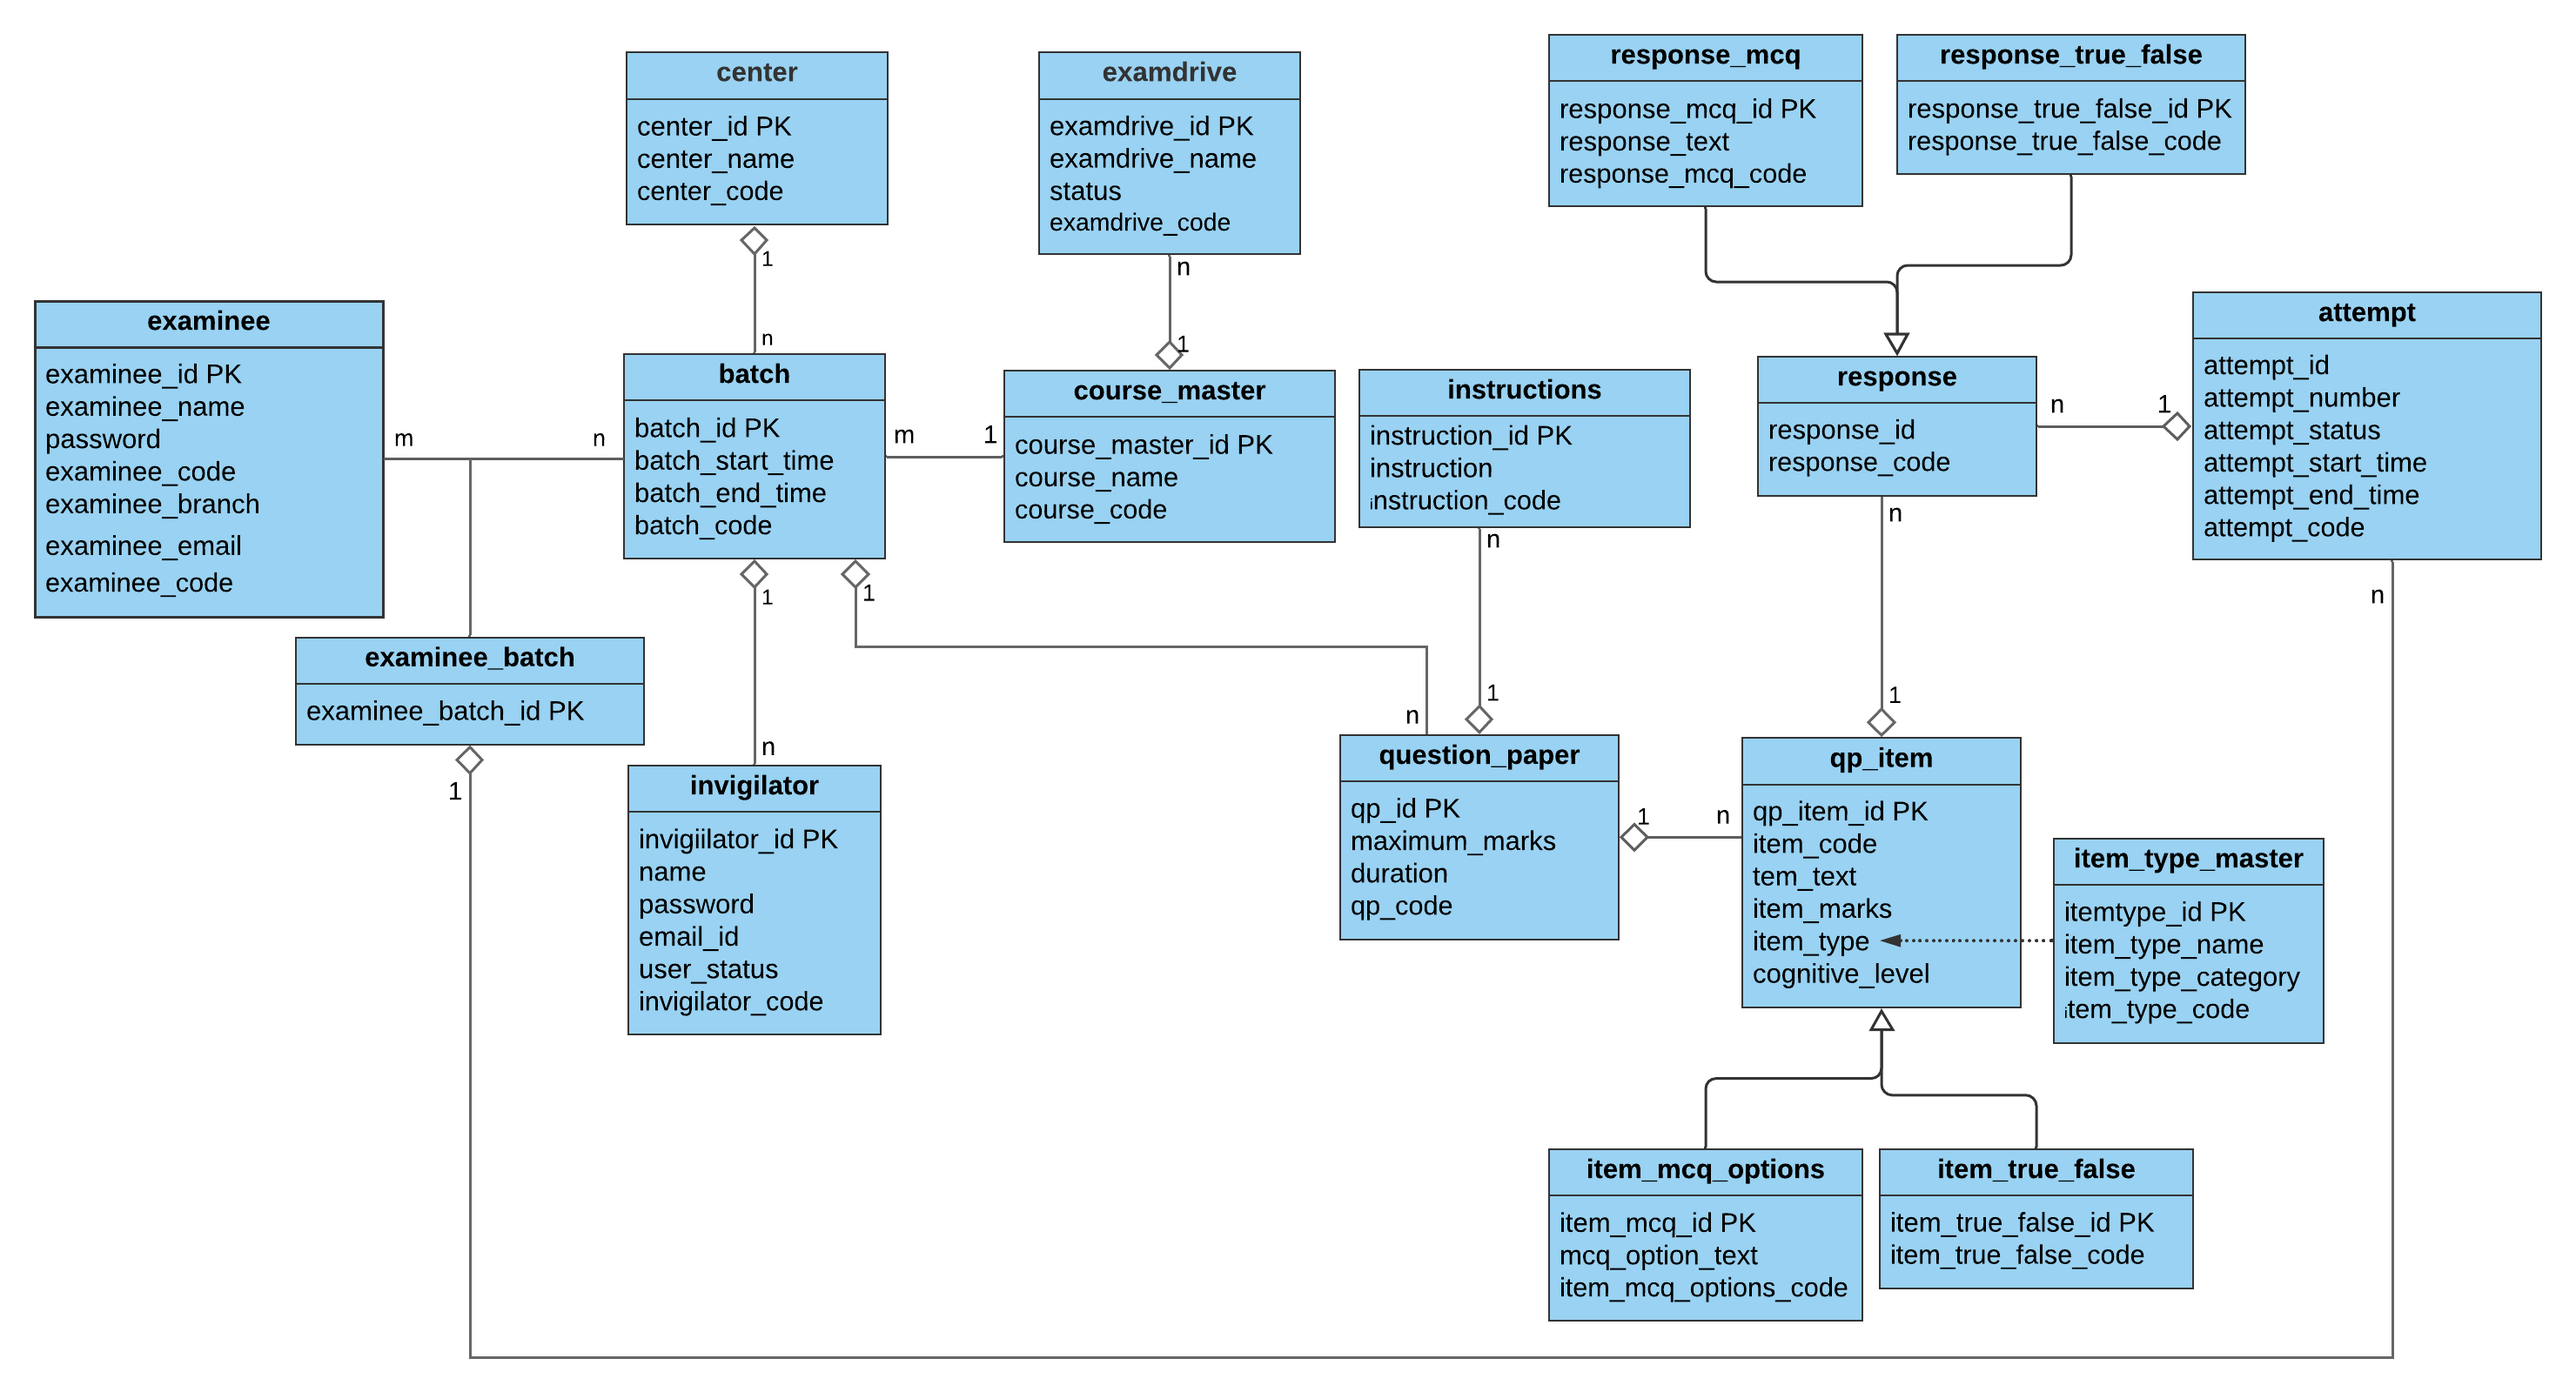
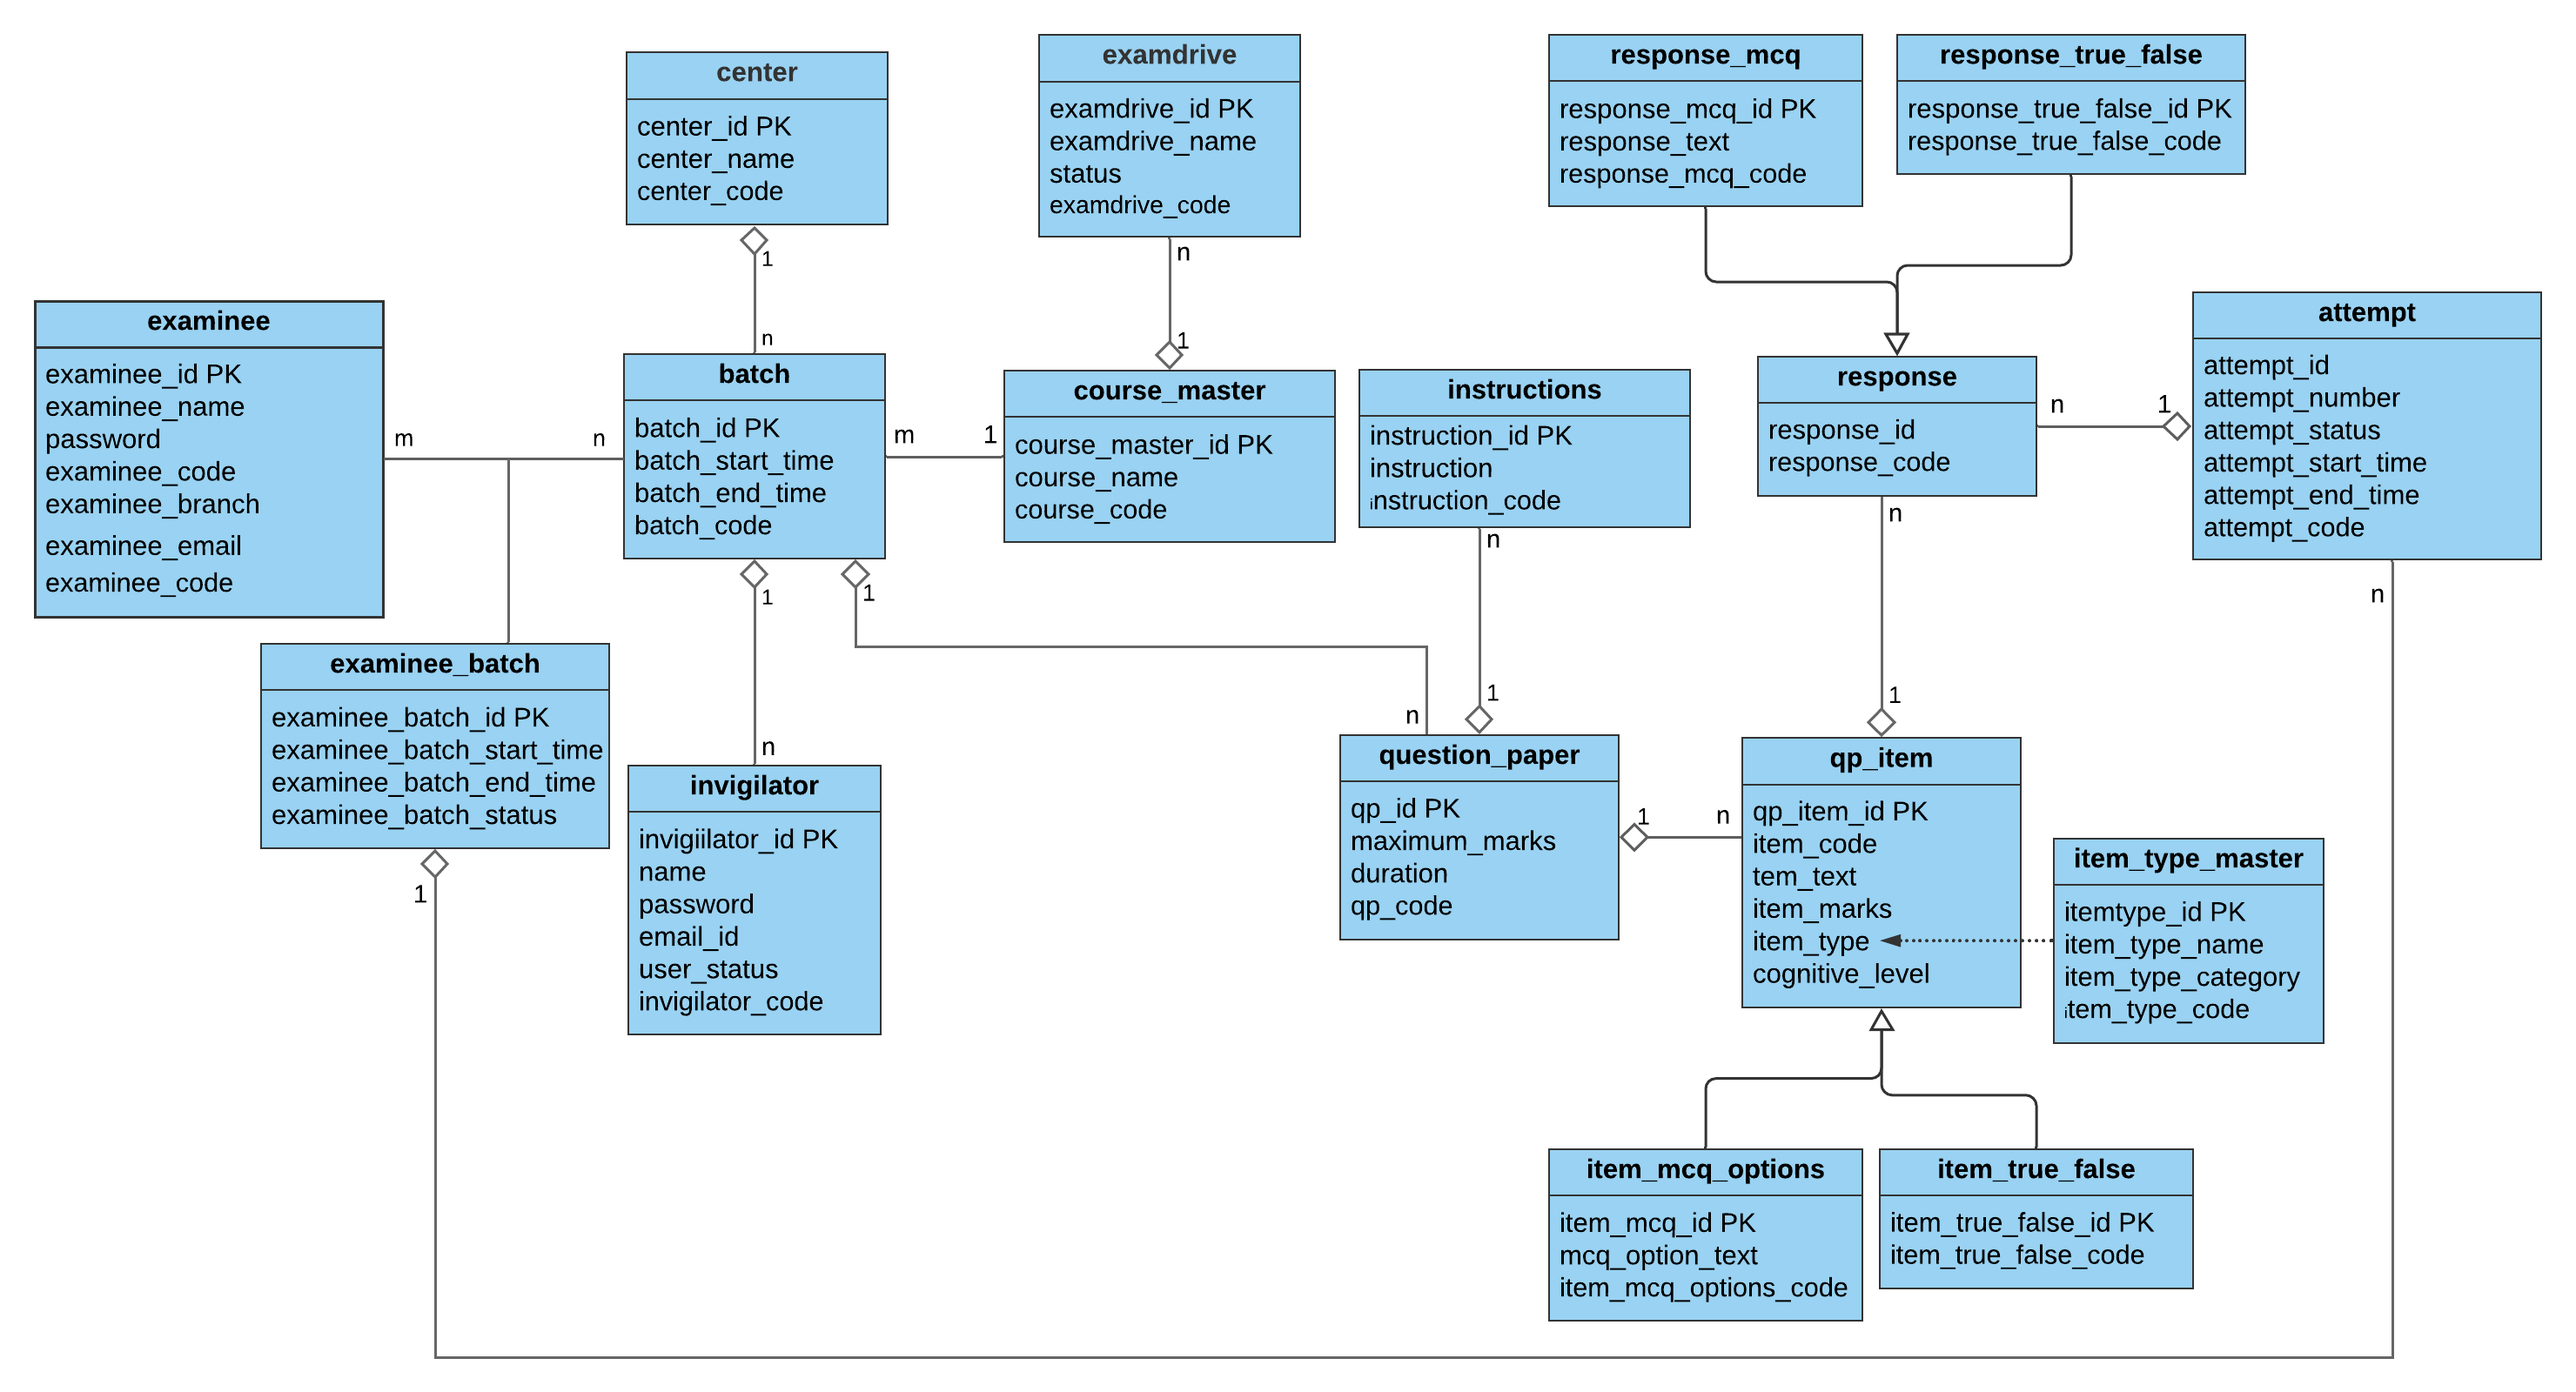
Adding extra attributes in examineeBatch Table

Changed region(s): [[0.0932, 0.4375, 0.2486, 0.625], [0.4041, 0.0, 0.5284, 0.1875]]

diff --git a/Assessment/examinee/assessmentExaminee_UI/src/app/question-paper/question-paper.component.ts b/Assessment/examinee/assessmentExaminee_UI/src/app/question-paper/question-paper.component.ts
@@ -20,6 +20,9 @@ export class QuestionPaperComponent implements OnInit {
   attempt: Attempt = {attemptId: 0, attemptCode: '', attemptNumber: 1, attemptStartTime: '', attemptEndTime: null, attemptStatus: 'IN_PROGRESS', asExamineeBatch: null};
   constructor(private questionPaperService: QuestionPaperService, private activeRoute: ActivatedRoute, public route: Router, public datepipe: DatePipe) { }
 
+  examineeBatch: ExamineeBatch = {examineeBatchId: null, examineeBatchStartTime: '', examineeBatchEndTime: null, examineeBatchStatus: 'IN_PROGRESS', examinee: null, batch: null};
+  // {"examineeBatchId":{"examineeId":1,"batchId":1},"examineeBatchStartTime":"2020-10-02T09:15:00","examineeBatchEndTime":null,"examineeBatchStatus":"IN_PROGRESS", "examinee":null, "batch":null}
+
   ngOnInit(): void {
     const examineeId = 1;
     this.questionPaperService.getQuestionPapers(examineeId).subscribe((questionPapers) => this.questionPapers = questionPapers);
@@ -43,9 +46,13 @@ export class QuestionPaperComponent implements OnInit {
 
     this.attempt.attemptCode = 'Attempt' + examineeId + questionPaper.asBatch.batchId;
 
+    this.examineeBatch.examineeBatchId = examineeBatchId;
+    this.examineeBatch.examineeBatchStartTime = currDateTimeFormatted;
+
     if(currDateTime >= new Date(questionPaper.asBatch.batchStartTime) && currDateTime <= new Date(questionPaper.asBatch.batchEndTime)){
       this.showStartExamModalPopup = false;
       this.addAttempt(examineeId, questionPaper.asBatch.batchId, this.attempt);
+      this.updateExamineeBatch(examineeId, questionPaper.asBatch.batchId, this.examineeBatch);
       this.route.navigate(['/examination/' + questionPaper.qpId]);
       // (<HTMLInputElement> document.getElementById("StartButton_"+questionPaper.qpId.toString())).disabled = false;
     }
@@ -58,6 +65,10 @@ export class QuestionPaperComponent implements OnInit {
 
   addAttempt(examineeId: number, batchId: number, attempt: Attempt): void{
     this.questionPaperService.postAttemptForExamineeAndBatch(examineeId, batchId, attempt).subscribe((attempt) => this.attempt = attempt);
+  }
+
+  updateExamineeBatch(examineeId: number, batchId: number, examineeBatch: ExamineeBatch): void{
+    this.questionPaperService.updateExamineeBatchStartTimeAndStatus(examineeId,batchId,examineeBatch).subscribe((examineeBatch) => this.examineeBatch = examineeBatch);
   }
 
 }

diff --git a/Assessment/examinee/assessmentExaminee_UI/src/app/services/question-paper.service.ts b/Assessment/examinee/assessmentExaminee_UI/src/app/services/question-paper.service.ts
@@ -5,6 +5,7 @@ import { Attempt } from "../shared/attempt";
 import { HttpClient } from "@angular/common/http";
 import { baseURL } from "../shared/baseurl";
 import { Observable, of } from "rxjs";
+import { ExamineeBatch } from '../shared/examineeBatch';
 
 @Injectable({
   providedIn: 'root'
@@ -19,6 +20,10 @@ export class QuestionPaperService {
 
   postAttemptForExamineeAndBatch(examineeId: number, batchId: number, attempt: Attempt): Observable<Attempt>{
     return this.http.post<Attempt>(baseURL +  'examinee/' + examineeId + '/batch/' + batchId + '/attempt', attempt);
+  }
+
+  updateExamineeBatchStartTimeAndStatus(examineeId: number, batchId: number, examineeBatch: ExamineeBatch): Observable<ExamineeBatch>{
+    return this.http.put<ExamineeBatch>(baseURL + 'examinee/' + examineeId + '/batch/' + batchId + '/examineeBatch', examineeBatch);
   }
 
   // getQuestionPapers(): QuestionPaper[]{

diff --git a/Assessment/examinee/assessmentExaminee_UI/src/app/shared/examineeBatch.ts b/Assessment/examinee/assessmentExaminee_UI/src/app/shared/examineeBatch.ts
@@ -9,6 +9,9 @@ export class ExamineeBatchId{
 
 export class ExamineeBatch{
     examineeBatchId: ExamineeBatchId;
+    examineeBatchStartTime: string;
+    examineeBatchEndTime: string;
+    examineeBatchStatus: string;
     examinee: Examinee;
     batch: Batch;
 }

diff --git a/Assessment/examinee/assessmentExamineeBackEnd/src/main/java/com/iiitb/assessmentBackEnd/examineeBatch/AsExamineeBatch.java b/Assessment/examinee/assessmentExamineeBackEnd/src/main/java/com/iiitb/assessmentBackEnd/examineeBatch/AsExamineeBatch.java
@@ -1,5 +1,7 @@
 package com.iiitb.assessmentBackEnd.examineeBatch;
 
+import java.time.LocalDateTime;
+
 import javax.persistence.EmbeddedId;
 import javax.persistence.Entity;
 import javax.persistence.Id;
@@ -19,6 +21,10 @@ public class AsExamineeBatch {
 	
 	@EmbeddedId
     private ExamineeBatchKey examineeBatchId;
+	
+	private LocalDateTime examineeBatchStartTime, examineeBatchEndTime;
+	private enum examineeBatchStatusList {NOT_STARTED, IN_PROGRESS, COMPLETED};
+	private String examineeBatchStatus;
  
     @ManyToOne
     @MapsId("examineeId")
@@ -36,9 +42,13 @@ public class AsExamineeBatch {
     	
     }
     
-	public AsExamineeBatch(ExamineeBatchKey examineeBatchId, AsExaminee examinee, AsBatch batch) {
+	public AsExamineeBatch(ExamineeBatchKey examineeBatchId, LocalDateTime examineeBatchStartTime, LocalDateTime examineeBatchEndTime, 
+			String examineeBatchStatus, AsExaminee examinee, AsBatch batch) {
 		super();
 		this.examineeBatchId = examineeBatchId;
+		this.examineeBatchStartTime = examineeBatchStartTime;
+		this.examineeBatchEndTime = examineeBatchEndTime;
+		this.examineeBatchStatus = examineeBatchStatus;
 		this.examinee = examinee;
 		this.batch = batch;
 	}
@@ -49,6 +59,30 @@ public class AsExamineeBatch {
 
 	public void setExamineeBatchId(ExamineeBatchKey examineeBatchId) {
 		this.examineeBatchId = examineeBatchId;
+	}
+	
+	public LocalDateTime getExamineeBatchStartTime() {
+		return examineeBatchStartTime;
+	}
+
+	public void setExamineeBatchStartTime(LocalDateTime examineeBatchStartTime) {
+		this.examineeBatchStartTime = examineeBatchStartTime;
+	}
+
+	public LocalDateTime getExamineeBatchEndTime() {
+		return examineeBatchEndTime;
+	}
+
+	public void setExamineeBatchEndTime(LocalDateTime examineeBatchEndTime) {
+		this.examineeBatchEndTime = examineeBatchEndTime;
+	}
+
+	public String getExamineeBatchStatus() {
+		return examineeBatchStatus;
+	}
+
+	public void setExamineeBatchStatus(String examineeBatchStatus) {
+		this.examineeBatchStatus = examineeBatchStatus;
 	}
 
 	public AsExaminee getExaminee() {

diff --git a/Assessment/examinee/assessmentExamineeBackEnd/src/main/java/com/iiitb/assessmentBackEnd/examineeBatch/ExamineeBatchController.java b/Assessment/examinee/assessmentExamineeBackEnd/src/main/java/com/iiitb/assessmentBackEnd/examineeBatch/ExamineeBatchController.java
@@ -5,7 +5,9 @@ import java.util.List;
 import org.springframework.beans.factory.annotation.Autowired;
 import org.springframework.web.bind.annotation.CrossOrigin;
 import org.springframework.web.bind.annotation.PathVariable;
+import org.springframework.web.bind.annotation.RequestBody;
 import org.springframework.web.bind.annotation.RequestMapping;
+import org.springframework.web.bind.annotation.RequestMethod;
 import org.springframework.web.bind.annotation.RestController;
 
 @RestController
@@ -15,8 +17,14 @@ public class ExamineeBatchController {
 	@Autowired
 	public ExamineeBatchService examineeBatchService;
 	
-	@RequestMapping("/examinee/{examineeId}/batch/{batchId}")
+	@RequestMapping("/examinee/{examineeId}/batch/{batchId}/examineeBatch")
 	public AsExamineeBatch getExamineeBatchFromExamineeAndBatchIds(@PathVariable int examineeId, @PathVariable int batchId){
 		return examineeBatchService.getExamineeBatchFromExamineeAndBatchIds(examineeId, batchId);
+	}
+	
+	@RequestMapping(method=RequestMethod.PUT, value="/examinee/{examineeId}/batch/{batchId}/examineeBatch")
+	public void updateExamineeBatch(@PathVariable int examineeId, @PathVariable int batchId,@RequestBody AsExamineeBatch examineeBatch) {
+		ExamineeBatchKey examineeBatchKey = new ExamineeBatchKey(examineeId, batchId);
+		examineeBatchService.updateExamineeBatch(examineeBatchKey, examineeBatch);
 	}
 }

diff --git a/Assessment/examinee/assessmentExamineeBackEnd/src/main/java/com/iiitb/assessmentBackEnd/attempt/AttemptController.java b/Assessment/examinee/assessmentExamineeBackEnd/src/main/java/com/iiitb/assessmentBackEnd/attempt/AttemptController.java
@@ -23,7 +23,7 @@ public class AttemptController {
 	@RequestMapping(method=RequestMethod.POST, value="/examinee/{examineeId}/batch/{batchId}/attempt")
 	public void addAttempt(@RequestBody AsAttempt attempt, @PathVariable int examineeId, @PathVariable int batchId) {
 		ExamineeBatchKey examineeBatchKey = new ExamineeBatchKey(examineeId, batchId);
-		AsExamineeBatch asExamineeBatch = new AsExamineeBatch(examineeBatchKey,null,null);
+		AsExamineeBatch asExamineeBatch = new AsExamineeBatch(examineeBatchKey,null,null,"NOT_STARTED",null,null);
 //		asExamineeBatch.setExamineeBatchId(examineeBatchKey);
 		attempt.setAsExamineeBatch(asExamineeBatch);
 		attemptService.addAttempt(attempt);

diff --git a/Assessment/examinee/assessmentExamineeBackEnd/src/main/java/com/iiitb/assessmentBackEnd/attempt/AsAttempt.java b/Assessment/examinee/assessmentExamineeBackEnd/src/main/java/com/iiitb/assessmentBackEnd/attempt/AsAttempt.java
@@ -17,7 +17,7 @@ public class AsAttempt {
 	private String attemptCode;
 	private int attemptNumber;
 	private LocalDateTime attemptStartTime, attemptEndTime;
-	private enum attemptStatusList {NOT_STARTED, IN_PROGRESS, COMPLETED, ABANDONED};
+	private enum attemptStatusList {IN_PROGRESS, COMPLETED, ABANDONED};
 	private String attemptStatus;
 	
 	@ManyToOne

diff --git a/Assessment/examinee/assessmentExamineeBackEnd/src/main/java/com/iiitb/assessmentBackEnd/examineeBatch/ExamineeBatchService.java b/Assessment/examinee/assessmentExamineeBackEnd/src/main/java/com/iiitb/assessmentBackEnd/examineeBatch/ExamineeBatchService.java
@@ -14,4 +14,8 @@ public class ExamineeBatchService {
 		return examineeBatchRepository.findByExamineeBatchId(examineeBatchKey);
 	}
 
+	public void updateExamineeBatch(ExamineeBatchKey examineeBatchKey, AsExamineeBatch examineeBatch) {
+		examineeBatchRepository.save(examineeBatch);
+	}
+
 }
